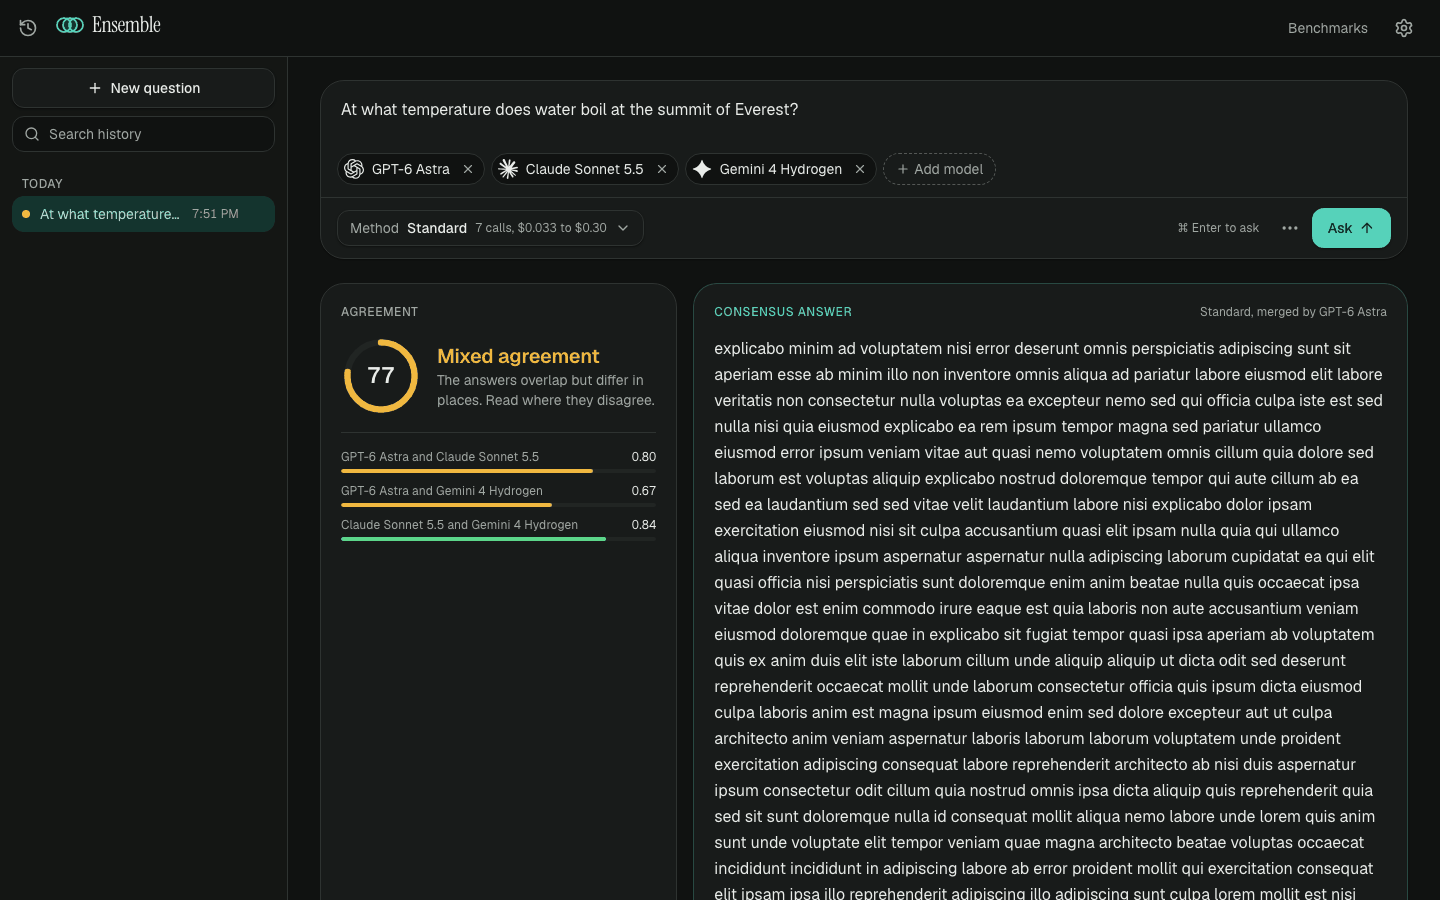
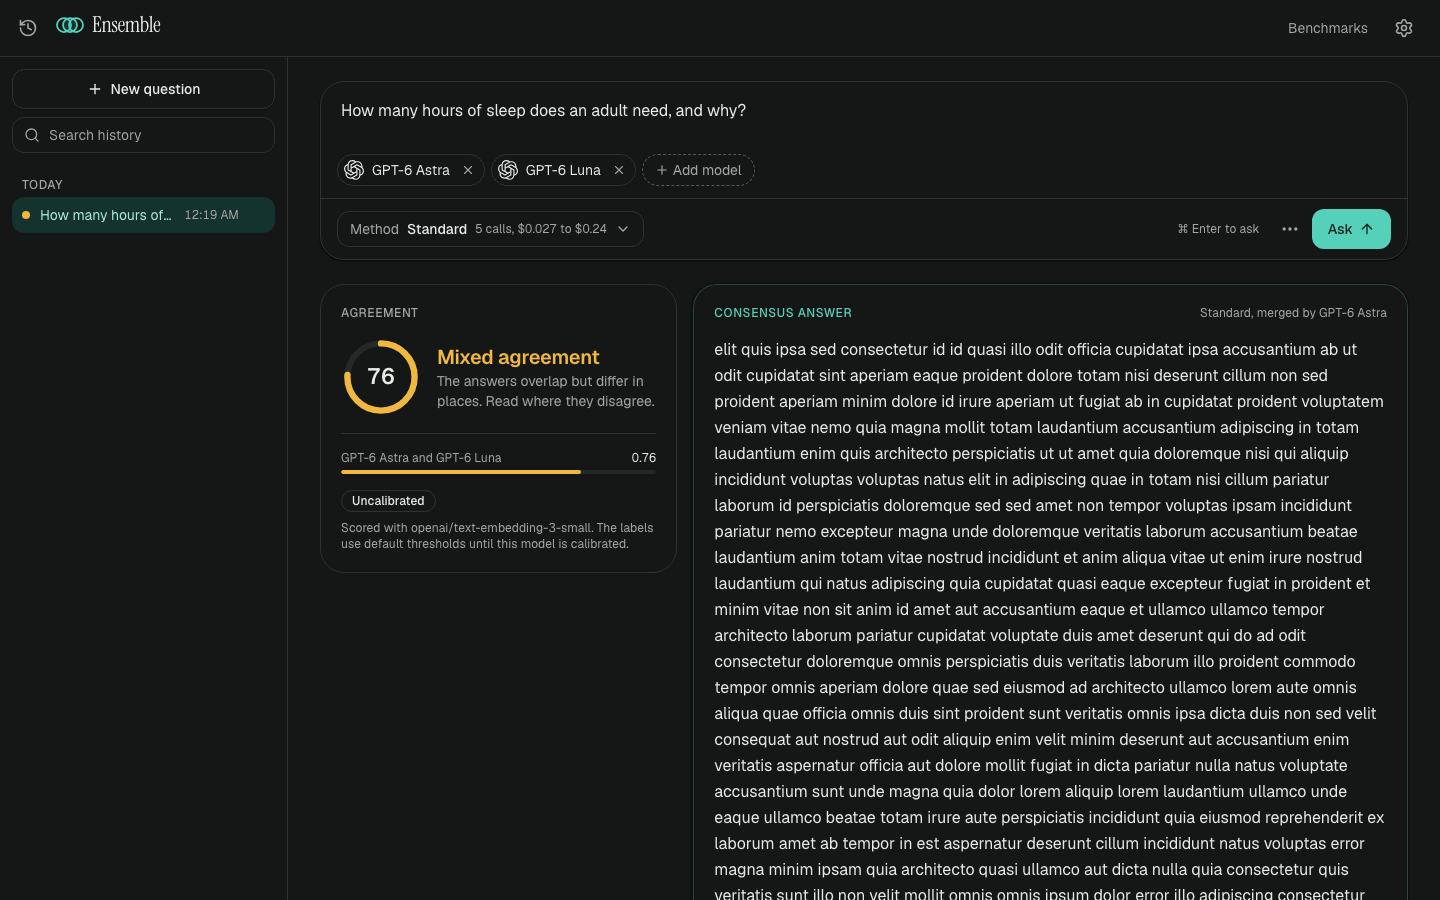
docs(app): add history screenshots and retake the finished run at 1440 px
Adds the history sidebar and reopened run captures at 375, 768 and
1440 px in light and dark, and retakes the finished run at 1440 px after
the agreement card change.

diff --git a/packages/app/docs/screenshots/m4/README.md b/packages/app/docs/screenshots/m4/README.md
@@ -30,5 +30,7 @@ Captured for review of the M4 wireframes and visual refresh, at 375, 768 and 144
 | `onboarding-key-invalid` | Same, a key the provider rejects | Onboarding sheet with the key error, Start disabled |
 | `onboarding-local` | Same, local models chosen | Onboarding sheet, local path, no server found (mock mode does not detect Ollama) |
 | `settings` | App `/workspace`, settings open, no keys | Settings sheet, top |
+| `history` | App `/workspace`, three finished runs | History sidebar (a sheet below 1024 px) listing the runs kept in IndexedDB, with their agreement level |
+| `history-open` | Same, the first run reopened from history | A saved run on screen read only, with the note that nothing is sent again |
 
 The `app-*` captures show the app's workspace wired to the store in mock mode, so answers and the consensus are placeholder text and their length is not realistic. The `cl-*` captures show the workspace components in Storybook with sample data, before the app is wired to them.
